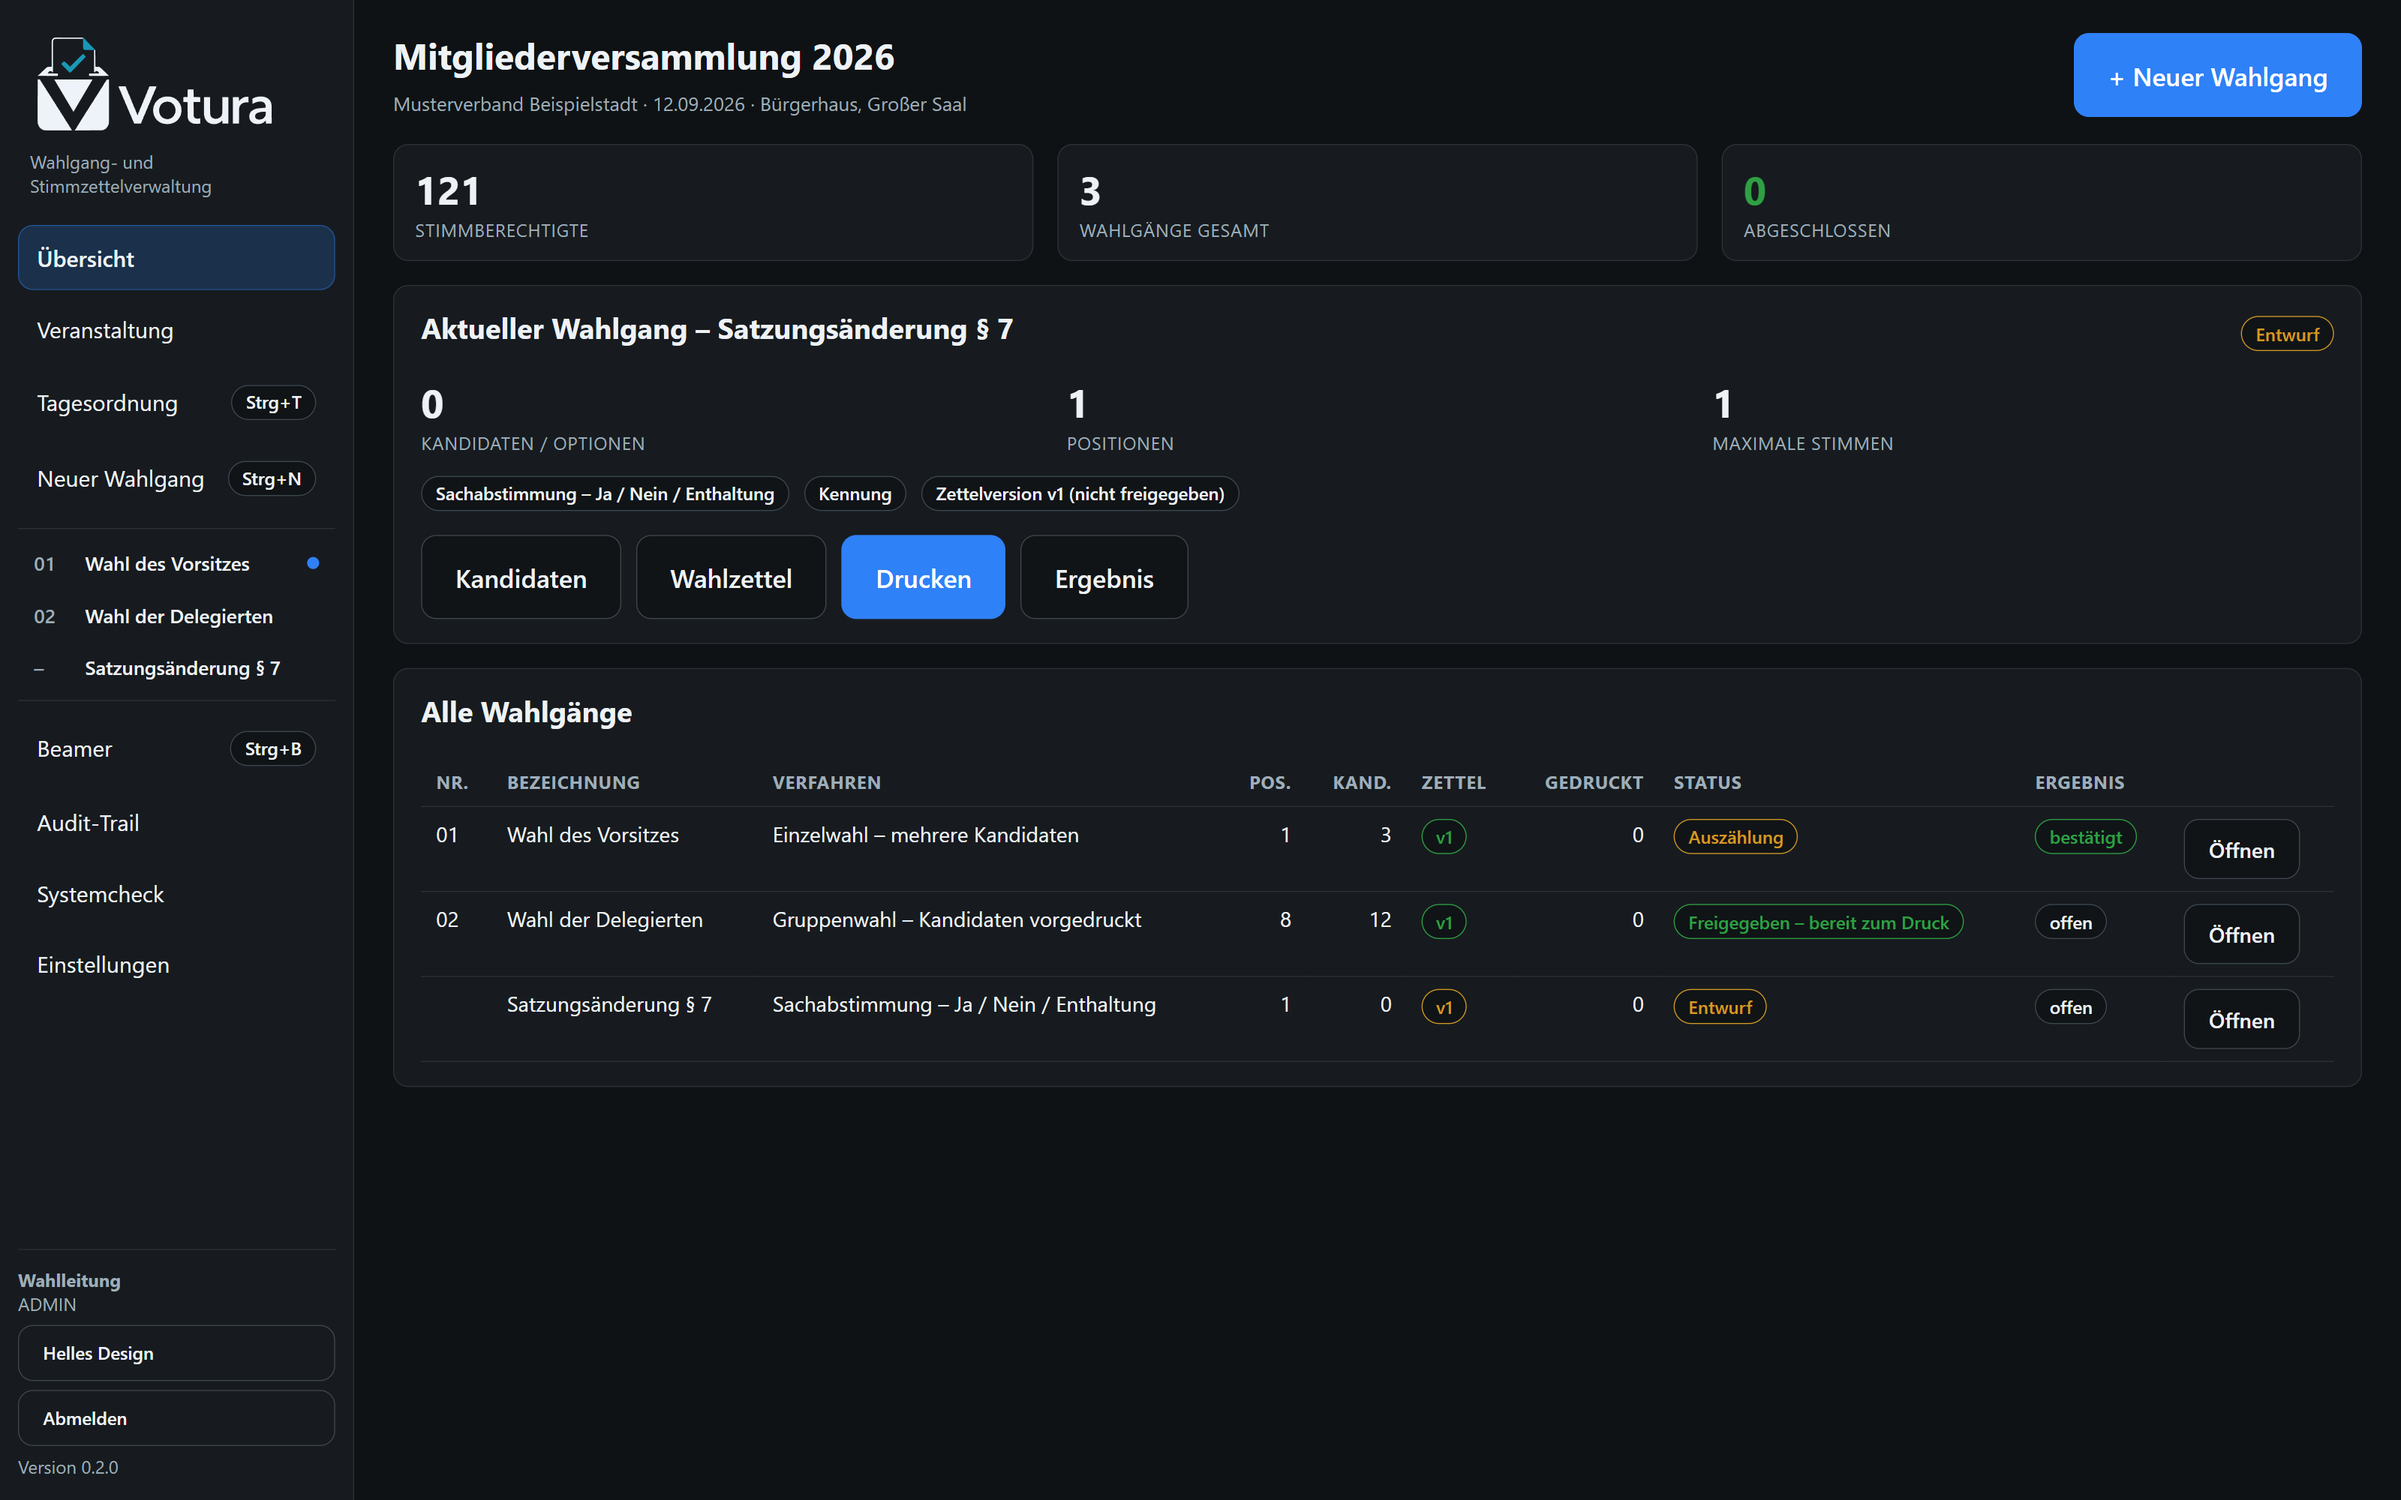
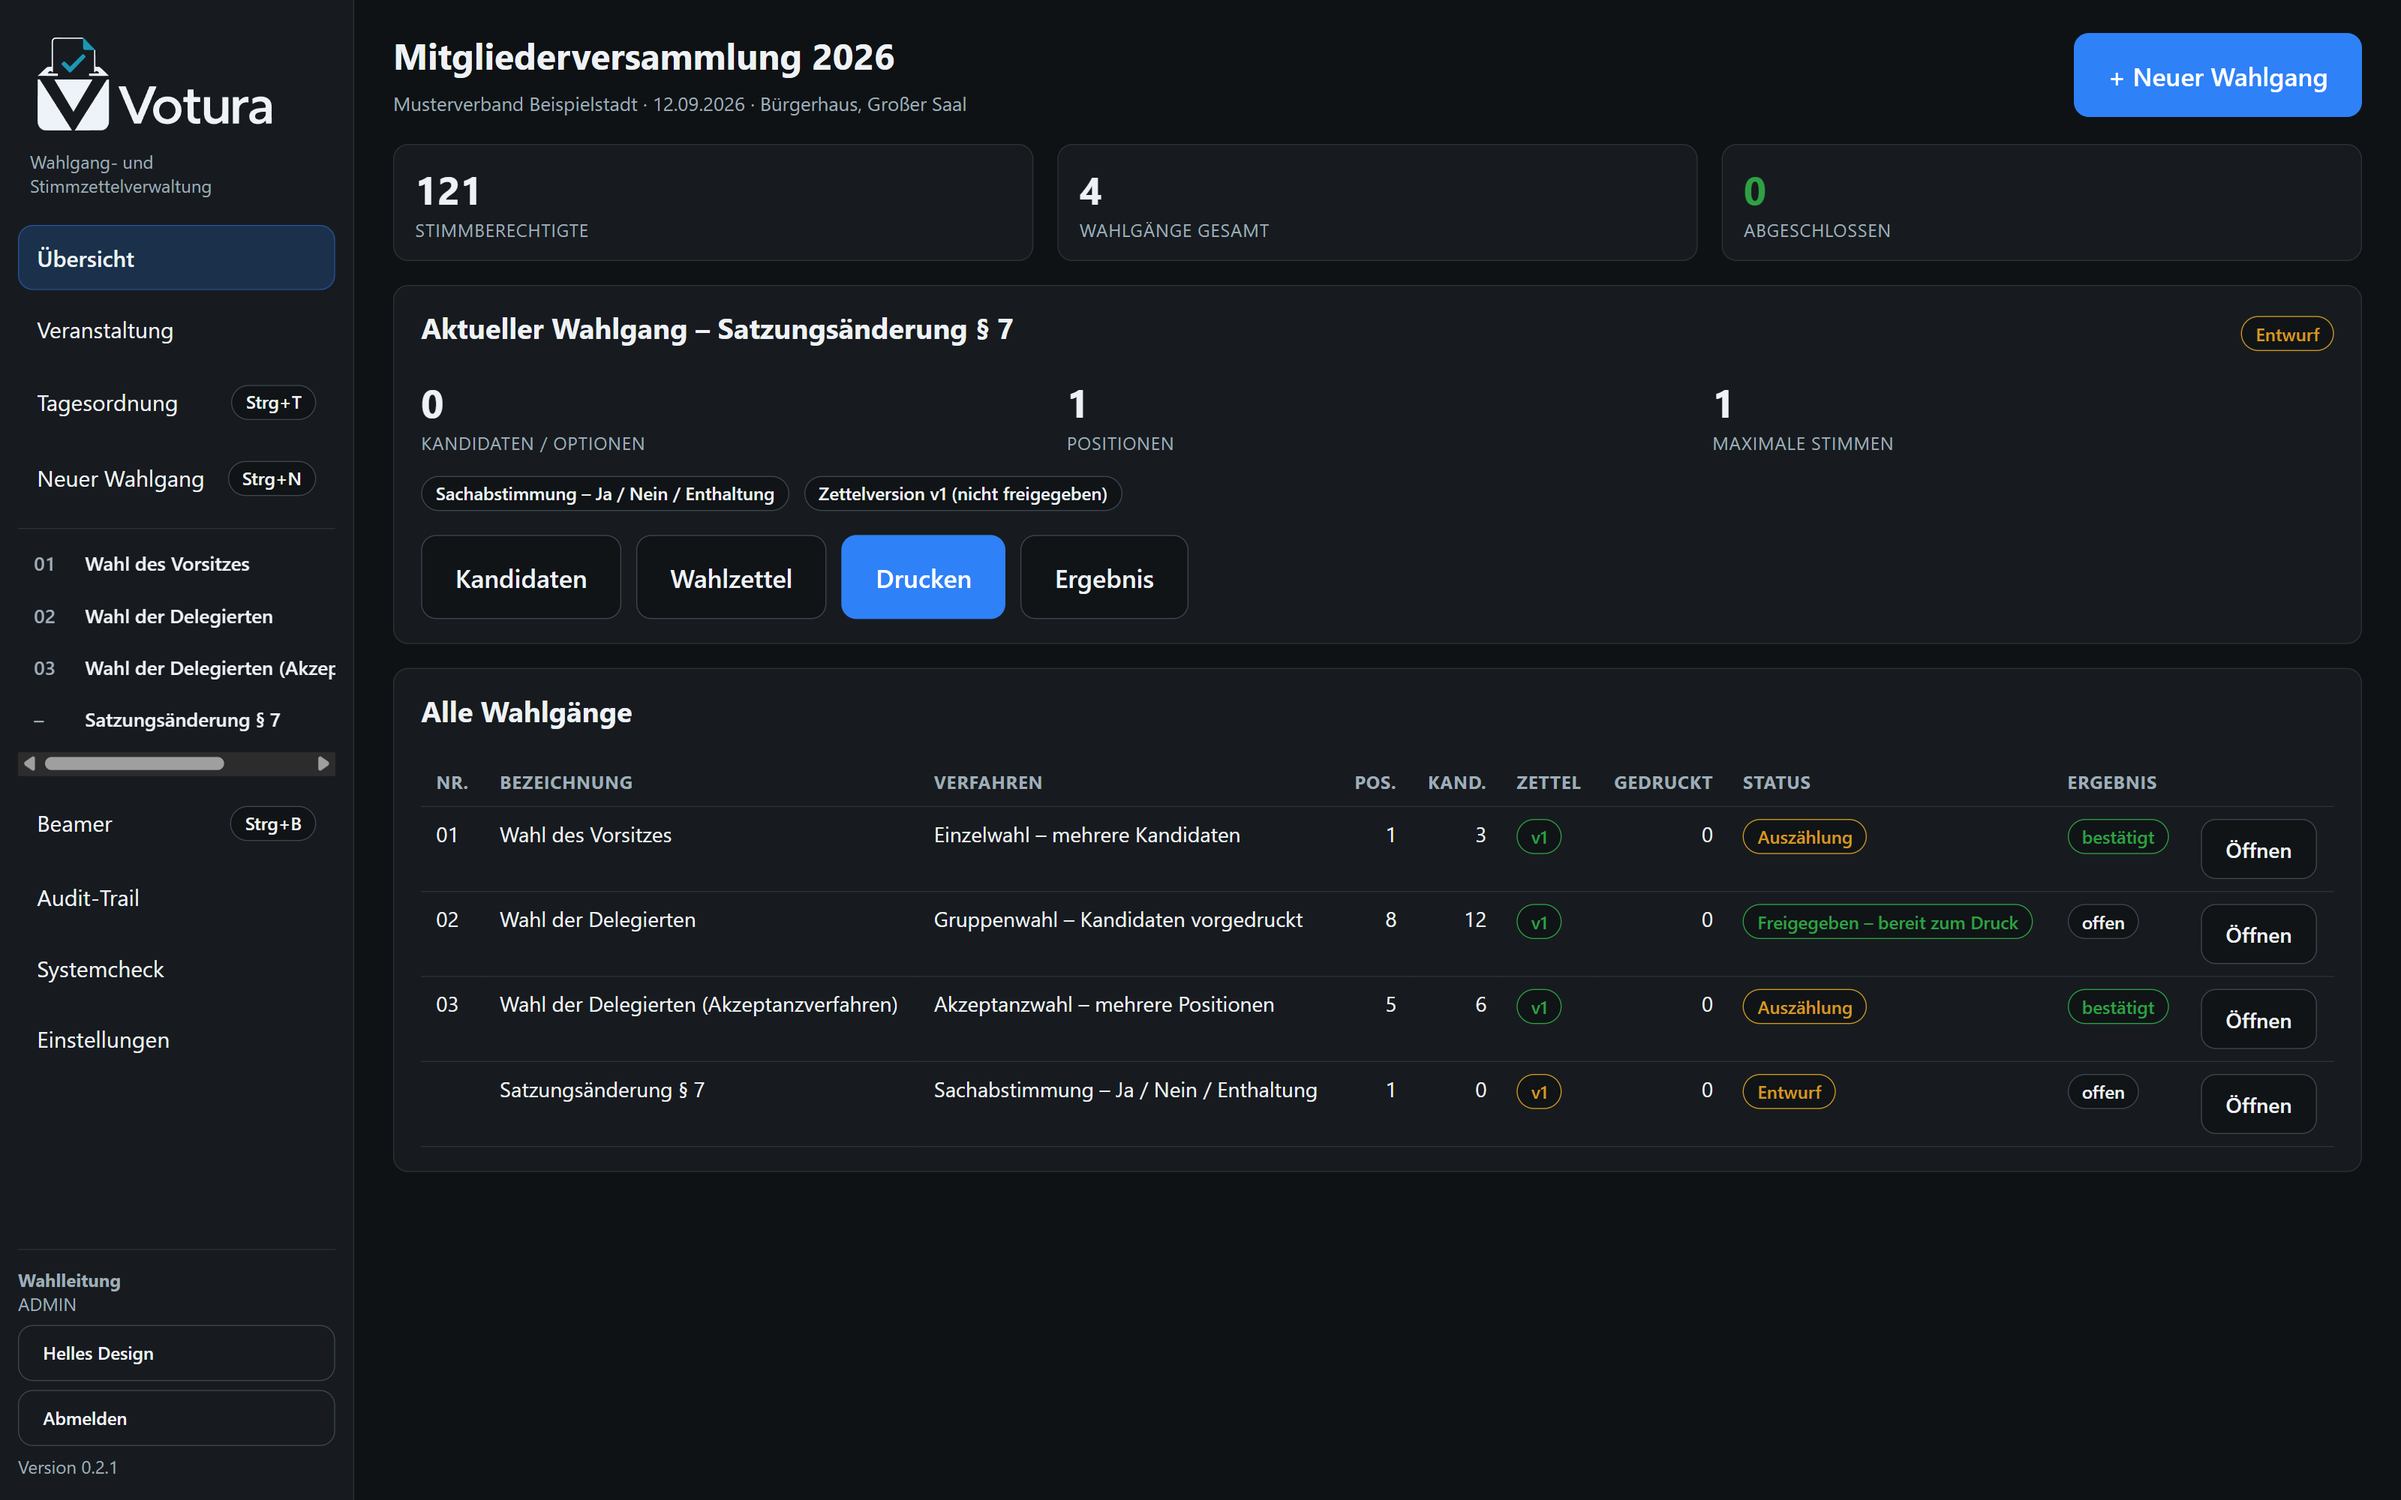
feat: Akzeptanzverfahren im Demo-Bestand, Wahlformen in der Dokumentation
Der Demo-Bestand enthält die Delegiertenwahl jetzt zweimal — als Gruppenwahl
und als Akzeptanzwahl mit Ja/Nein/Enthaltung je Bewerber, samt bestätigtem
Ergebnis (vier von sechs Bewerbern erreichen mehr Ja- als Nein-Stimmen). Die
README führt alle 16 Wahlverfahren mit Stimmzettelform und Einsatzzweck auf und
stellt beide Fassungen der Delegiertenwahl gegenüber.

Dabei fiel auf, dass ein Akzeptanz-Stimmzettel ohne JA-Feld entstehen konnte:
Fehlende Angaben einer Vorlage wurden mit allgemeinen Vorgaben aufgefüllt
(allowYes: false), statt mit denen des Verfahrens. Auf einem solchen Zettel
ließe sich nur ablehnen oder enthalten. Die Vorgaben richten sich jetzt nach dem
Verfahren, und die Prüfung vor der Freigabe meldet einen fehlenden JA-Aufdruck
bei Verfahren mit Votum je Bewerber als Fehler.

132 Unit- und Integrationstests.

diff --git a/tests/election.test.ts b/tests/election.test.ts
@@ -8,7 +8,8 @@ import {
   parseCandidateLine,
   profileFor,
   sortCandidates,
-  validateRoundSetup
+  validateRoundSetup,
+  withTemplateDefaults
 } from '../src/shared/election'
 import { buildRoundCode, derivedRoundLabel, roundLabelFor, sanitizeForPrint } from '../src/shared/format'
 import type { BallotTemplateConfig, Candidate, ElectionRound } from '../src/shared/types'
@@ -243,5 +244,32 @@ describe('Wahlgang-Typ', () => {
   it('haelt die vollständige Verfahrensliste bereit', () => {
     const round: Pick<ElectionRound, 'procedure'> = { procedure: 'connected_single_election' }
     expect(profileFor(round.procedure).entryKind).toBe('positions')
+  })
+})
+
+describe('Stimmzettelvorlage je Verfahren', () => {
+  it('übernimmt beim Akzeptanzverfahren das JA aus dem Verfahren', () => {
+    // Ohne Verfahrensbezug greifen die allgemeinen Vorgaben (kein JA) — auf
+    // einem Akzeptanz-Stimmzettel ließe sich dann nur ablehnen oder enthalten.
+    expect(withTemplateDefaults({}).allowYes).toBe(false)
+    expect(withTemplateDefaults({}, 'acceptance_group').allowYes).toBe(true)
+    expect(withTemplateDefaults({}, 'connected_single_election').allowYes).toBe(true)
+    // Eine ausdrückliche Angabe hat weiterhin Vorrang.
+    expect(withTemplateDefaults({ allowYes: false }, 'acceptance_group').allowYes).toBe(false)
+  })
+
+  it('meldet einen Akzeptanz-Stimmzettel ohne JA als Fehler', () => {
+    const issues = validateRoundSetup(
+      {
+        procedure: 'acceptance_group',
+        seats: 5,
+        maxVotes: null,
+        title: 'Delegierte',
+        template: template({ allowYes: false }),
+        positions: []
+      },
+      [candidate('Clara Fenske'), candidate('Paul Marquardt')]
+    )
+    expect(issues.some((issue) => issue.field === 'template' && issue.level === 'error')).toBe(true)
   })
 })

diff --git a/src/shared/election.ts b/src/shared/election.ts
@@ -364,7 +364,18 @@ export function defaultTemplateFor(
  * Wahlgänge, die vor einer Erweiterung der Vorlage angelegt wurden — sie
  * dürfen dadurch nicht plotzlich ohne Layoutangaben dastehen.
  */
-export function withTemplateDefaults(template: Partial<BallotTemplateConfig> | undefined): BallotTemplateConfig {
+/**
+ * Ergänzt fehlende Angaben einer Stimmzettelvorlage.
+ *
+ * Ist das Verfahren bekannt, gelten dessen Vorgaben als Grundlage — sonst
+ * entstünde etwa bei der Akzeptanzwahl ein Zettel ohne JA-Feld, auf dem sich
+ * nur ablehnen oder enthalten ließe.
+ */
+export function withTemplateDefaults(
+  template: Partial<BallotTemplateConfig> | undefined,
+  procedure?: ElectionProcedure
+): BallotTemplateConfig {
+  const ausVerfahren = procedure ? profileFor(procedure).defaultTemplate() : undefined
   return {
     showOrganization: true,
     showEventTitle: true,
@@ -382,6 +393,7 @@ export function withTemplateDefaults(template: Partial<BallotTemplateConfig> | u
     allowAbstention: true,
     blankLines: 0,
     instructionText: '',
+    ...ausVerfahren,
     ...template
   }
 }
@@ -402,6 +414,17 @@ export function validateRoundSetup(
 ): ValidationIssue[] {
   const issues: ValidationIssue[] = []
   const profile = profileFor(round.procedure)
+
+  // Bei Verfahren mit Votum je Bewerber muss zugestimmt werden können.
+  if (profile.perCandidateChoice && round.template && !round.template.allowYes) {
+    issues.push({
+      field: 'template',
+      level: 'error',
+      message:
+        'Bei diesem Verfahren wird jeder Bewerber einzeln beurteilt — ohne aufgedrucktes „JA" ließe sich nur ablehnen oder enthalten.'
+    })
+  }
+
   const active = candidates.filter((c) => !c.withdrawn)
 
   if (!round.title.trim()) {

diff --git a/src/main/services/rounds.ts b/src/main/services/rounds.ts
@@ -90,7 +90,10 @@ export function mapRound(row: RoundRow): ElectionRound {
     derivedAs: (optionalString(row.derived_as) as ElectionRound['derivedAs']) ?? undefined,
     ballotVersion: Number(row.ballot_version),
     approvedVersion: optionalNumber(row.approved_version),
-    template: withTemplateDefaults(fromJson<Partial<BallotTemplateConfig>>(row.template_json, {})),
+    template: withTemplateDefaults(
+      fromJson<Partial<BallotTemplateConfig>>(row.template_json, {}),
+      row.procedure as ElectionProcedure
+    ),
     orderMode: row.order_mode as CandidateOrderMode,
     orderSeed: optionalNumber(row.order_seed),
     positions: fromJson<BallotPosition[]>(row.positions_json, []),

diff --git a/README.md b/README.md
@@ -40,7 +40,7 @@ Die Dateien sind nicht signiert; Windows SmartScreen meldet sich daher beim erst
 ```bash
 npm install
 npm run dev          # Anwendung mit Hot Reload starten
-npm test             # 130 Unit- und Integrationstests
+npm test             # 132 Unit- und Integrationstests
 npm run typecheck    # Typprüfung für Main-, Preload- und Renderer-Code
 npm run build        # Produktionsbundle nach out/
 npm run dist:win     # Windows-Installer und portable EXE nach release/
@@ -76,9 +76,57 @@ ausdrücklicher Bestätigung durch die Wahlleitung.
 ## Wahlverfahren
 
 Wahlzweck (`purpose`) und Wahlverfahren (`procedure`) sind strikt getrennt: Aus „Delegiertenwahl"
-folgt kein Verfahren — das beschließt die Versammlung. Unterstützt sind 16 Verfahren, darunter Einzelwahl (ein/mehrere Bewerber), Stichwahl, verbundene Einzelwahl,
-Gruppenwahl (vorgedruckt und blanko), Akzeptanzverfahren, Zwei-Stufen-Wahl (Stufe 1, Stufe 2 als
-Einzelplatz oder Block), Sachabstimmungen und die offene Abstimmung ohne Stimmzettel.
+folgt kein Verfahren — das beschließt die Versammlung. Dieselbe Delegiertenwahl kann als
+Gruppenwahl, als Akzeptanzwahl oder in zwei Stufen durchgeführt werden; der Stimmzettel sieht
+jeweils anders aus.
+
+### Personenwahlen
+
+| Verfahren | Stimmzettel | Wofür |
+|---|---|---|
+| **Einzelwahl – ein Kandidat** | ein Name, global `JA` / `NEIN` / `ENTHALTUNG` | Eine Position, ein Bewerber |
+| **Einzelwahl – mehrere Kandidaten** | alle Namen, eine Stimme, dazu `NEIN` / `ENTHALTUNG` | Eine Position, mehrere Bewerber |
+| **Stichwahl** | die verbliebenen Bewerber, eine Stimme | Zweiter Durchgang ohne erreichte Mehrheit |
+| **Verbundene Einzelwahl** | je Position ein eigener Abschnitt | Mehrere Positionen auf einem Zettel, getrennt entschieden |
+| **Gruppenwahl – vorgedruckt** | alle Namen mit Ankreuzfeld, höchstens *n* Stimmen | Mehrere gleichartige Sitze, Bewerberfeld steht fest |
+| **Gruppenwahl – Blanko** | nummerierte Schreiblinien | Mehrere Sitze, Namen werden handschriftlich eingetragen |
+| **Akzeptanzwahl – Einzelposition** | `JA` / `NEIN` / `ENTHALTUNG` **je Bewerber** | Jeder Bewerber wird einzeln beurteilt |
+| **Akzeptanzwahl – mehrere Positionen** | `JA` / `NEIN` / `ENTHALTUNG` **je Bewerber** | Gewählt ist, wer mehr Ja- als Nein-Stimmen hat |
+| **Zwei-Stufen-Wahl – Stufe 1** | alle Namen, ohne feste Höchstzahl | Vorauswahl des Bewerberfelds |
+| **Zwei-Stufen-Wahl – Stufe 2, Einzelplatz** | die Vorausgewählten, eine Stimme | Listenplatz für Listenplatz besetzen |
+| **Zwei-Stufen-Wahl – Stufe 2, Wahlblock** | die Vorausgewählten, *n* Stimmen | Mehrere Listenplätze in einem Block |
+
+### Sachabstimmungen
+
+| Verfahren | Stimmzettel | Wofür |
+|---|---|---|
+| **Ja / Nein / Enthaltung** | Beschlusstext, drei Optionen | Anträge, Satzungsänderungen |
+| **Eine von mehreren Optionen** | Optionen, eine Stimme | Auswahl zwischen Vorschlägen |
+| **Mehrere Optionen** | Optionen, mehrere Stimmen | Zustimmung zu mehreren Punkten |
+| **Variantenwahl / Alternativanträge** | Varianten, eine Stimme | Konkurrierende Anträge |
+| **Offene Abstimmung** | **kein Stimmzettel** | Handzeichen oder Stimmkarte; nur Stimmen werden gezählt |
+
+### Beispiel: dieselbe Delegiertenwahl in zwei Verfahren
+
+Der Demo-Bestand enthält beide Fassungen — links die Gruppenwahl (ankreuzen, höchstens acht
+Stimmen), rechts die Akzeptanzwahl (jeder Bewerber einzeln mit `JA` / `NEIN` / `ENTHALTUNG`).
+
+<table>
+<tr>
+<td width="50%"><img src="docs/screenshots/08-wahlzettel-vorschau.png" alt="Stimmzettel der Gruppenwahl"><br><sub><b>Gruppenwahl</b> — ein Ankreuzfeld je Name, Nein und Enthaltung gelten für den ganzen Zettel und stehen am Ende.</sub></td>
+<td width="50%"><img src="docs/screenshots/12-akzeptanzwahl-stimmzettel.png" alt="Stimmzettel der Akzeptanzwahl"><br><sub><b>Akzeptanzwahl</b> — unter jedem Namen ein eigenes Votum; die Kopfzeile weist das Verfahren aus.</sub></td>
+</tr>
+<tr>
+<td width="50%"><img src="docs/screenshots/10-ergebnis.png" alt="Ergebnis der Gruppenwahl"><br><sub><b>Ergebnis</b> — Stimmen je Bewerber, Rangfolge und Sitzgrenze.</sub></td>
+<td width="50%"><img src="docs/screenshots/13-akzeptanzwahl-ergebnis.png" alt="Ergebnis der Akzeptanzwahl"><br><sub><b>Ergebnis</b> — Ja/Nein/Enthaltung je Bewerber. Wer nicht mehr Ja- als Nein-Stimmen hat, wird gekennzeichnet; hier bleibt der fünfte Platz unbesetzt.</sub></td>
+</tr>
+</table>
+
+Zu jedem Verfahren gehören eigene Vorgaben für Höchststimmenzahl, Mindestzahl an Bewerbern, die
+Frage, ob mehrere Sitze zu besetzen sind, und der Vorschlag für die Feststellung. Was auf dem
+Zettel steht — `JA`, `NEIN`, `ENTHALTUNG`, Kandidatennummern, Kumulieren, Abstände —, bleibt je
+Wahlgang einstellbar, weil es sich nach der geltenden Wahlordnung richtet und nicht nach der
+Software.
 
 ## Sicherheitszusagen (technisch durchgesetzt)
 

diff --git a/docs/betrieb.md b/docs/betrieb.md
@@ -152,6 +152,8 @@ Die folgenden Aufnahmen stammen aus einem Demo-Bestand und lassen sich mit
 | ![Stimmzettel](screenshots/08-wahlzettel-vorschau.png) | Druckvorschau, Prüfliste, Freigabe |
 | ![Druck](screenshots/09-druck.png) | Stückzahl, Drucker, Testdruck, Protokoll |
 | ![Ergebnis](screenshots/10-ergebnis.png) | Auszählung, Plausibilitätsprüfung, Feststellung |
+| ![Akzeptanzwahl](screenshots/12-akzeptanzwahl-stimmzettel.png) | Akzeptanzverfahren: Ja/Nein/Enthaltung je Bewerber |
+| ![Ergebnis der Akzeptanzwahl](screenshots/13-akzeptanzwahl-ergebnis.png) | Gewählt ist, wer mehr Ja- als Nein-Stimmen hat |
 | ![Audit-Trail](screenshots/04-audit-trail.png) | Lückenlose Nachvollziehbarkeit aller Handlungen |
 | ![Systemcheck](screenshots/05-systemcheck.png) | Prüfung vor der Versammlung |
 | ![Einstellungen](screenshots/06-einstellungen.png) | Drucker, Sicherheit, Konten, Beamer-Erscheinungsbild |
